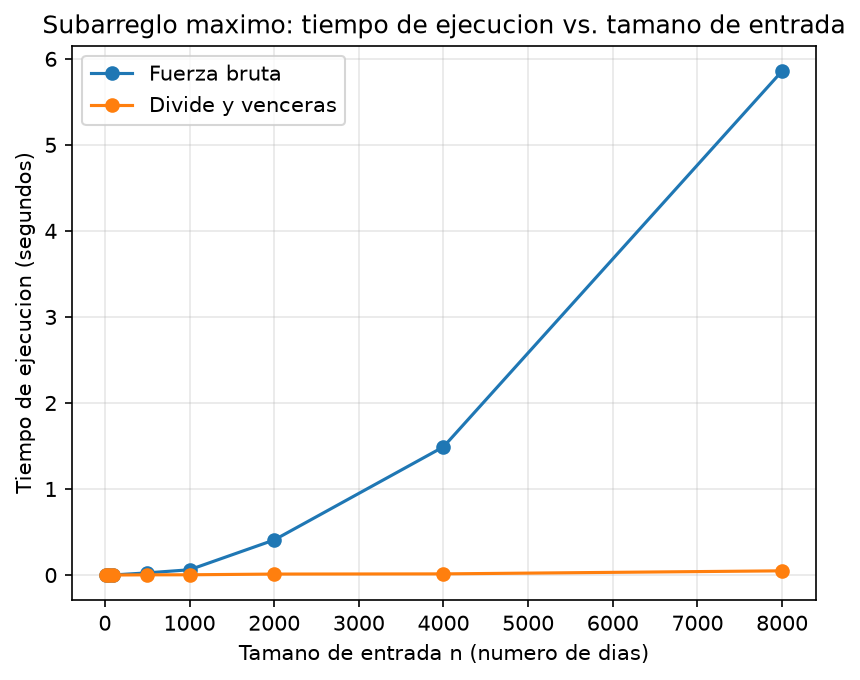
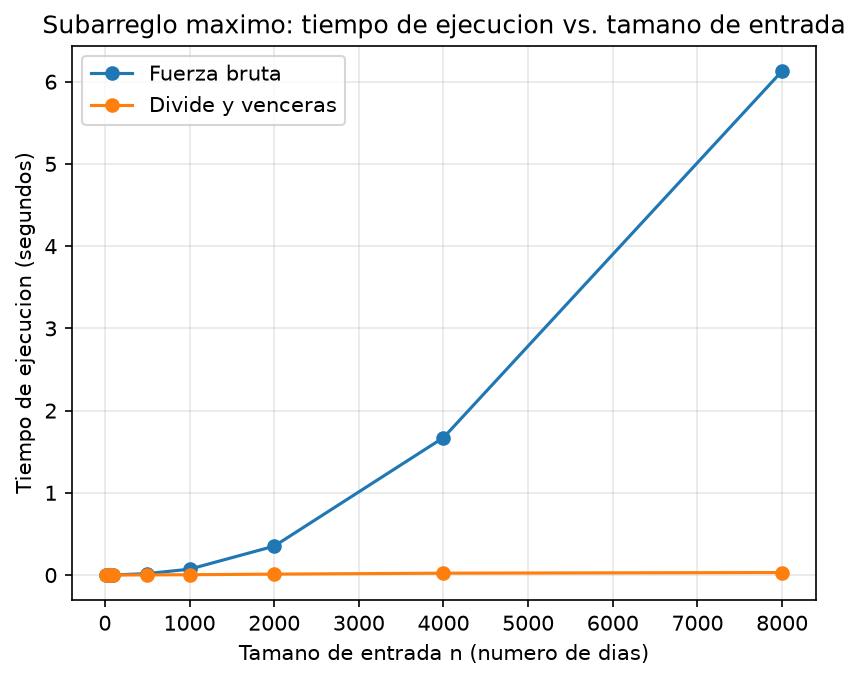
docs: Corrige medición de tabla y análisis de gráfica

diff --git a/laboratorios/lab2-divide-y-vencer/README.md b/laboratorios/lab2-divide-y-vencer/README.md
@@ -15,7 +15,7 @@
 2. Activar el entorno virtual:
    - Linux/macOS: `source venv/bin/activate`
    - Windows: `venv\Scripts\activate`
-3. Instalar las dependencias (cómo `matplotlib`):
+3. Instalar las dependencias (como `matplotlib`):
    ```bash
    pip install -r requirements.txt
    ```
@@ -23,9 +23,9 @@
    ```bash
    cd laboratorios/lab2-divide-y-vencer
    ```
-5. Ejecutar las pruebas (el scrip termina imprimiendo `Todas las pruebas pasaron.`):
+5. Ejecutar las pruebas (el script termina imprimiendo `Todas las pruebas pasaron.`):
    ```bash
-   python pruebas.py  
+   python pruebas.py
    ```
    ó `py pruebas.py` (Para Windows)
 6. Ejecutar la medición (imprime los tiempos y genera `graficas/tiempo_vs_n.png`):
@@ -42,9 +42,9 @@ Código de esta parte: [`subarreglo.py`](subarreglo.py) y [`pruebas.py`](pruebas
 
 Las tres funciones están en [`subarreglo.py`](subarreglo.py):
 
-- [`subarreglo_fuerza_bruta`](subarreglo.py#L4-L29): prueba todos los pares de días `(i, j)` acumulando la suma dentro del ciclo.
-- [`suma_cruzada`](subarreglo.py#L32-L67): barrido lineal desde el punto medio hacia cada lado, para el tramo que incluye al menos un día de cada mitad.
-- [`subarreglo_maximo`](subarreglo.py#L70-L100): divide y vencerás; resuelve los casos izquierdo, derecho y cruzado y devuelve el mejor de los tres, sin llamar a la fuerza bruta.
+- [`subarreglo_fuerza_bruta`](subarreglo.py#L4-L31): prueba todos los pares de días `(i, j)` acumulando la suma dentro del ciclo.
+- [`suma_cruzada`](subarreglo.py#L34-L69): barrido lineal desde el punto medio hacia cada lado, para el tramo que incluye al menos un día de cada mitad.
+- [`subarreglo_maximo`](subarreglo.py#L72-L102): divide y vencerás; resuelve los casos izquierdo, derecho y cruzado y devuelve el mejor de los tres, sin llamar a la fuerza bruta.
 
 **Cómo se verificó.** El script [`pruebas.py`](pruebas.py) usa `assert` (instrucción en Python que permite comprobar que una condición proporcionada sea verdadera. Se usa para hacer pruebas unitarias) y compara siempre la suma, no los índices. Casos cubiertos:
 
@@ -64,11 +64,11 @@ Código de esta parte: [`medicion.py`](medicion.py)
 
 **Cómo se midió:**
 
-- Tamaños de entrada ([`TAMANOS`](medicion.py#L12)): 10, 50, 100, 500, 1000, 2000, 4000 y 8000.
-- Datos generados por [`generar_datos`](medicion.py#L18-L28) con semilla fija ([`SEMILLA = 42`](medicion.py#L13)), enteros entre -100 y 100. Para cada tamaño se usa la **misma lista** en ambos algoritmos.
+- Tamaños de entrada ([`TAMANOS`](medicion.py#L14)): 10, 50, 100, 500, 1000, 2000, 4000 y 8000.
+- Datos generados por [`generar_datos`](medicion.py#L20-L30) con semilla fija ([`SEMILLA = 42`](medicion.py#L15)), enteros entre -100 y 100. Para cada tamaño se usa la **misma lista** en ambos algoritmos.
 - Solo se cronometra la llamada al algoritmo, con `time.perf_counter()`; la generación de datos queda fuera.
-- Cada medición se repite 3 veces ([`REPETICIONES`](medicion.py#L14)) y se reporta la **mediana**.
-- Dentro del propio experimento ([`medir`](medicion.py#L47-L80)) se verifica con `assert` que ambos algoritmos devuelven la misma suma en cada tamaño.
+- Cada medición se repite 3 veces ([`REPETICIONES`](medicion.py#L16)) y se reporta la **mediana**.
+- Dentro del propio experimento ([`medir`](medicion.py#L51-L84)) se verifica con `assert` que ambos algoritmos devuelven la misma suma en cada tamaño.
 
 ![Tiempo de ejecución vs. tamaño de entrada: fuerza bruta y divide y vencerás](graficas/tiempo_vs_n.png)
 
@@ -76,14 +76,14 @@ Código de esta parte: [`medicion.py`](medicion.py)
 
 | n | Fuerza bruta (s) | Divide y vencerás (s) |
 |---:|---:|---:|
-| 10 | 0.000023s | 0.000049s |
-| 50 | 0.000122s | 0.000090s |
-| 100 | 0.000459s | 0.000198s |
-| 500 | 0.019468s | 0.001141s |
-| 1000 | 0.126704s | 0.007267s |
-| 2000 | 0.426440s | 0.010730s |
-| 4000 | 1.662596s | 0.023872s |
-| 8000 | 7.103474s | 0.047261s |
+| 10 | 0.000015s | 0.000025s |
+| 50 | 0.000226s | 0.000164s |
+| 100 | 0.000790s | 0.000309s |
+| 500 | 0.017496s | 0.001845s |
+| 1000 | 0.071589s | 0.003832s |
+| 2000 | 0.351359s | 0.011200s |
+| 4000 | 1.671757s | 0.022761s |
+| 8000 | 6.129756s | 0.030714s |
 
 ---
 
@@ -91,7 +91,7 @@ Código de esta parte: [`medicion.py`](medicion.py)
 
 ### 1. Recurrencia
 
-Código relacionado: [`subarreglo_maximo`](subarreglo.py#L70-L100), [`suma_cruzada`](subarreglo.py#L32-L67) y [`subarreglo_fuerza_bruta`](subarreglo.py#L4-L29).
+Código relacionado: [`subarreglo_maximo`](subarreglo.py#L72-L102), [`suma_cruzada`](subarreglo.py#L34-L69) y [`subarreglo_fuerza_bruta`](subarreglo.py#L4-L31).
 
 La función `subarreglo_maximo` realiza dos llamadas recursivas, una por cada mitad, cada una sobre n/2 elementos. La función `suma_cruzada` no es recursiva: los dos barridos que hace desde el punto medio recorren el rango una sola vez, entonces eso significa un Θ(n). Combinar es comparar las tres sumas, Θ(1), así que:
 
@@ -106,17 +106,17 @@ La fuerza bruta tiene un ciclo externo sobre i, que son los n valores, y uno int
 
 Datos: [gráfica y tabla de la Parte 2](#parte-2-medir-y-graficar).
 
-La curva de fuerza bruta crece de forma acelerada, siendo de 0,127 segundos con un n = 1000 y 7,10 segundos con un n = 8000. La de divide y vencerás, en cambio, apenas llega a 0,047 segundos con un n = 8000. Se puede visualizar como al duplicar n de 4000 a 8000, la fuerza bruta se multiplicó por 7,103/1,663 = 4,27 (Θ(n²) predicción 4) y divide y vencerás por 0,047/0,0239 = 1,98 (Θ(n log n) predicción 2,17). De 2000 a 4000 los factores fueron aproximadamente 3,9 y 2,23. Para ambos casos coinciden con los datos teóricos. El tramo de 1000 a 2000 dio 3,37 y 1,48, más lejos de lo esperado, se atribuye a ruido en mediciones de pocos milisegundos.
+La curva de fuerza bruta crece de forma acelerada, siendo de 0,072 segundos con un n = 1000 y 6,13 segundos con un n = 8000. La de divide y vencerás apenas llega a 0,031 segundos con un n = 8000. Al duplicar n de 4000 a 8000, la fuerza bruta se multiplicó por 6,130/1,672 = 3,67 (Θ(n²) predicción 4) y divide y vencerás por 0,0307/0,0228 = 1,35 (Θ(n log n) predicción 2,17). De 2000 a 4000 fueron 4,76 y 2,03, y de 1000 a 2000, 4,91 y 2,92: variación atribuida a ruido en mediciones de pocos milisegundos. Por eso, de n = 1000 a n = 8000 (tres duplicaciones), la fuerza bruta se multiplicó por 85,6 (unas 4,4 veces por duplicación) y divide y vencerás por 8,0 (unas 2,0), cercanos a lo teórico (4 y 2,18).
 
 ### 3. Tamaños pequeños
 
 Datos: [gráfica y tabla de la Parte 2](#parte-2-medir-y-graficar).
 
-Sí existe un tamaño en el que divide y vencerás empieza a ganar. En n = 10 divide y vencerás es más lento ya que tiene 49 microsegundos frente a 23 microsegundos. En n = 50 ya gana ya que tiene 90 microsegundos frente a 122 microsegundos y desde ahí en forma general empieza a ganar en todos los tamaños de las medidas, con una ventaja que crece alrededor de 2,3 veces con un n = 100, 17 veces con un n = 500 y 150 veces con un n = 8000. El cruce queda entre n = 10 y n = 50. Aparece tarde porque la recursión paga un costo constante que la fuerza bruta no tiene, por las llamadas a la función, las tuplas de retorno y un caso cruzado en cada nivel. Para el caso de la fuerza bruta solo hace dos ciclos simples. Entonces teniendo un n pequeño, la diferencia entre n² y n log n todavía es pequeña y esas constantes son las que dominan. Como en n = 10 los tiempos son de microsegundos, esa medición también tiene más ruido.
+Sí existe un tamaño en el que divide y vencerás empieza a ganar. En n = 10 divide y vencerás es más lento ya que tiene 25 microsegundos frente a 15 microsegundos. En n = 50 ya gana ya que tiene 164 microsegundos frente a 226 microsegundos y desde ahí en forma general empieza a ganar en todos los tamaños de las medidas, con una ventaja que crece alrededor de 2,6 veces con un n = 100, 9,5 veces con un n = 500 y 200 veces con un n = 8000. El cruce queda entre n = 10 y n = 50. Aparece tarde porque la recursión paga un costo constante que la fuerza bruta no tiene, por las llamadas a la función, las tuplas de retorno y un caso cruzado en cada nivel. Para el caso de la fuerza bruta solo hace dos ciclos simples. Entonces teniendo un n pequeño, la diferencia entre n² y n log n todavía es pequeña y esas constantes son las que dominan. Como en n = 10 los tiempos son de microsegundos, esa medición también tiene más ruido.
 
 ### 4. ¿Cuándo conviene dividir?
 
-Para comparar: [`subarreglo_maximo`](subarreglo.py#L70-L100) (donde combinar cuesta un barrido lineal).
+Para comparar: [`subarreglo_maximo`](subarreglo.py#L72-L102) (donde combinar cuesta un barrido lineal).
 
 Para hallar el máximo de un arreglo, combinar cuesta una comparación: `T(n) = 2T(n/2) + Θ(1)`. Con n^(log_2 2) = n, f(n) = Θ(1) crece más lento (caso 1), y T(n) = Θ(n). Recorrer el arreglo una vez también es Θ(n), así que dividir no mejora la complejidad y lo único que hace realmente es agregar overhead de la pila de llamadas y de copiar sublistas. En el subarreglo máximo sí conviene: la alternativa es Θ(n²) y combinar cuesta Θ(n), mucho menos que lo que la fuerza bruta repite. Hay que tener en cuenta que dividir solo conviene cuando la recurrencia da una complejidad menor que la alternativa directa; si no, lo único que se logrará es un gasto innecesario de tiempo y memoria.
 
@@ -126,6 +126,5 @@ Datos: [gráfica y tabla de la Parte 2](#parte-2-medir-y-graficar).
 
 Recomiendo usar divide y vencerás. Esto es una estimación, no una medición: se parte de n = 8000, el mayor tamaño medido, y se supone que el crecimiento observado se mantiene a mayor escala. El factor de escala es 10^6/8000 = 125.
 
-- **Fuerza bruta** (complejidad Θ(n²)): el tiempo se multiplica por 125², que es igual a 15.625. Entonces 7,10 s × 15.625 ≈ 111.000 s, lo que equivale a unas 31 horas.
-- **Divide y vencerás** (complejidad Θ(n log n)): el tiempo se multiplica por 125 × log₂(10^6) / log₂(8000) = 125 × 19,9/13, aproximadamente igual a 192. Entonces 0,0473 s × 192 ≈ 9 s, que es excesivamente menor al resultado estimado del algoritmo de fuerza bruta.
-
+- **Fuerza bruta** (complejidad Θ(n²)): el tiempo se multiplica por 125², que es igual a 15.625. Entonces 6,13 s × 15.625 ≈ 95.800 s, lo que equivale a unas 27 horas.
+- **Divide y vencerás** (complejidad Θ(n log n)): el tiempo se multiplica por 125 × log₂(10^6) / log₂(8000) = 125 × 19,9/13, aproximadamente igual a 192. Entonces 0,0307 s × 192 ≈ 5,9 s, que es excesivamente menor al resultado estimado del algoritmo de fuerza bruta.
